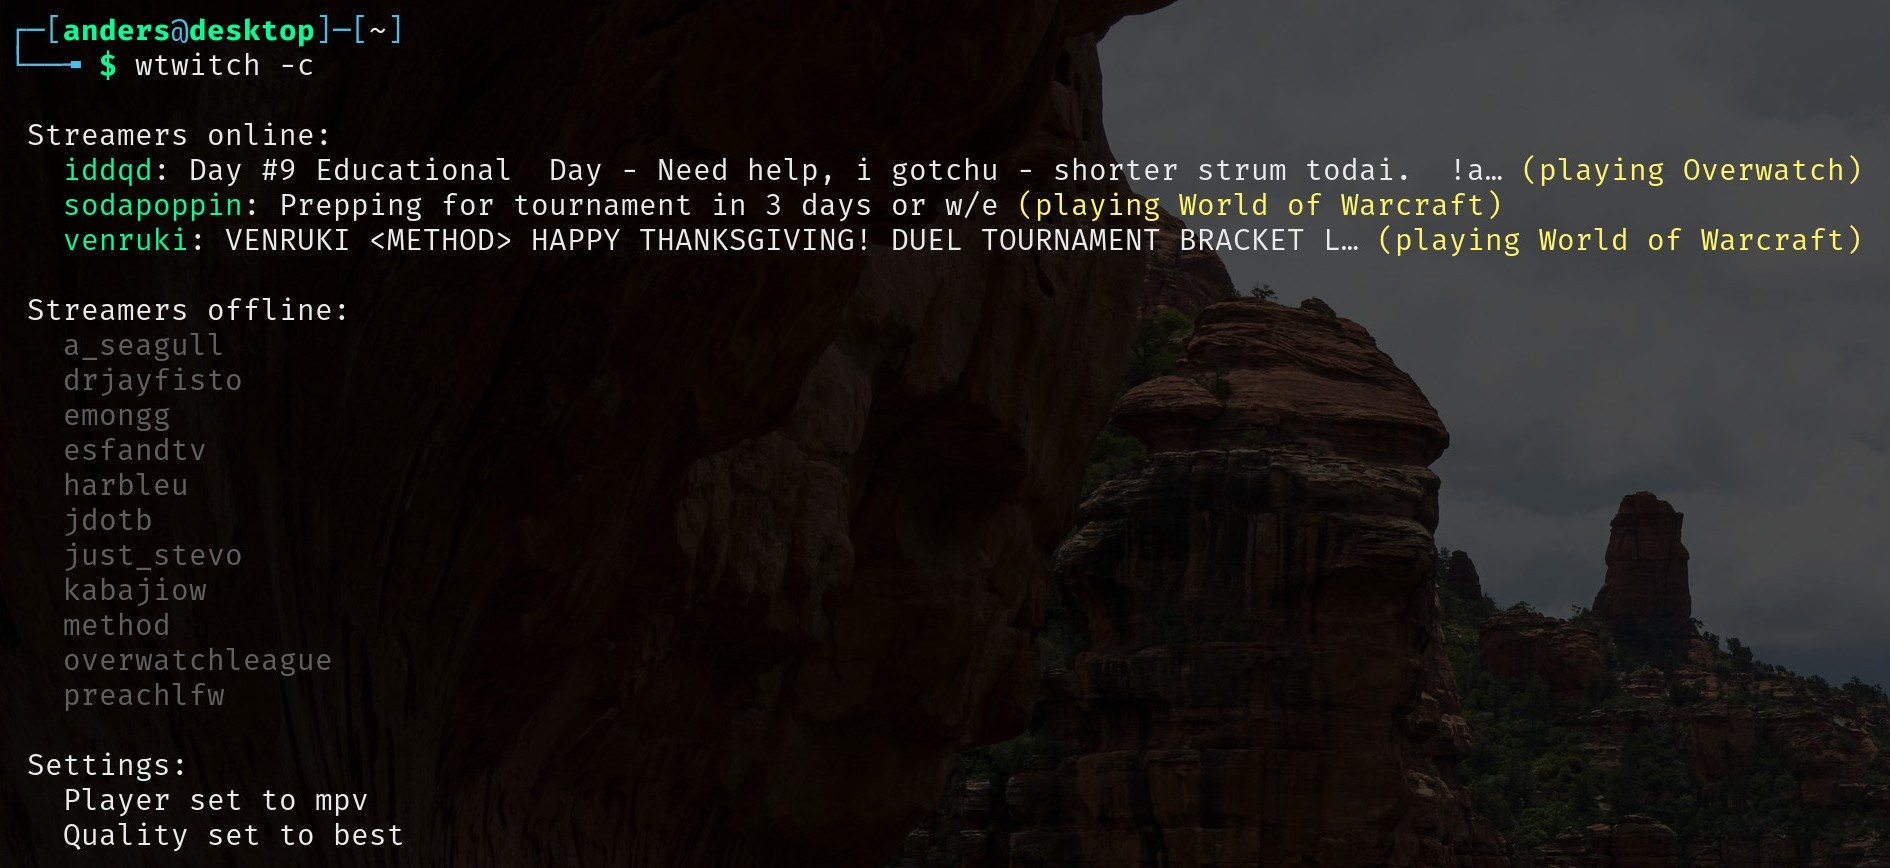
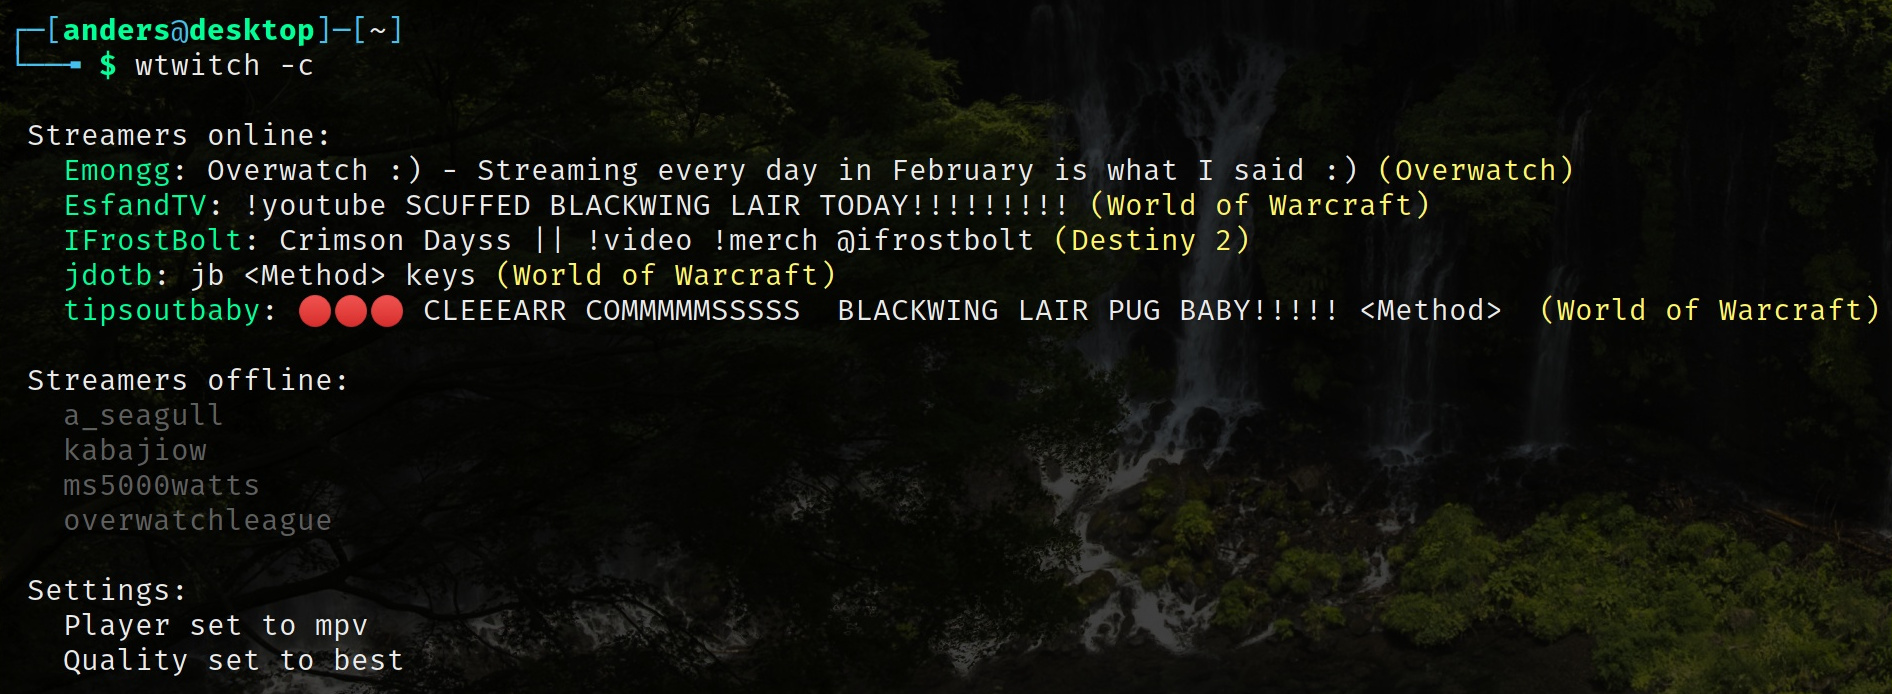
Update screenshot

diff --git a/README.md b/README.md
@@ -2,7 +2,7 @@
 
 A terminal program for Twitch. Watch and browse Twitch without proprietary JavaScript and without being tracked.
 
-![Screenshot](https://i.imgur.com/oaxH3ss.jpg)
+![Screenshot](https://i.imgur.com/nAWbrEg.jpg)
 
 Table of contents:
 
